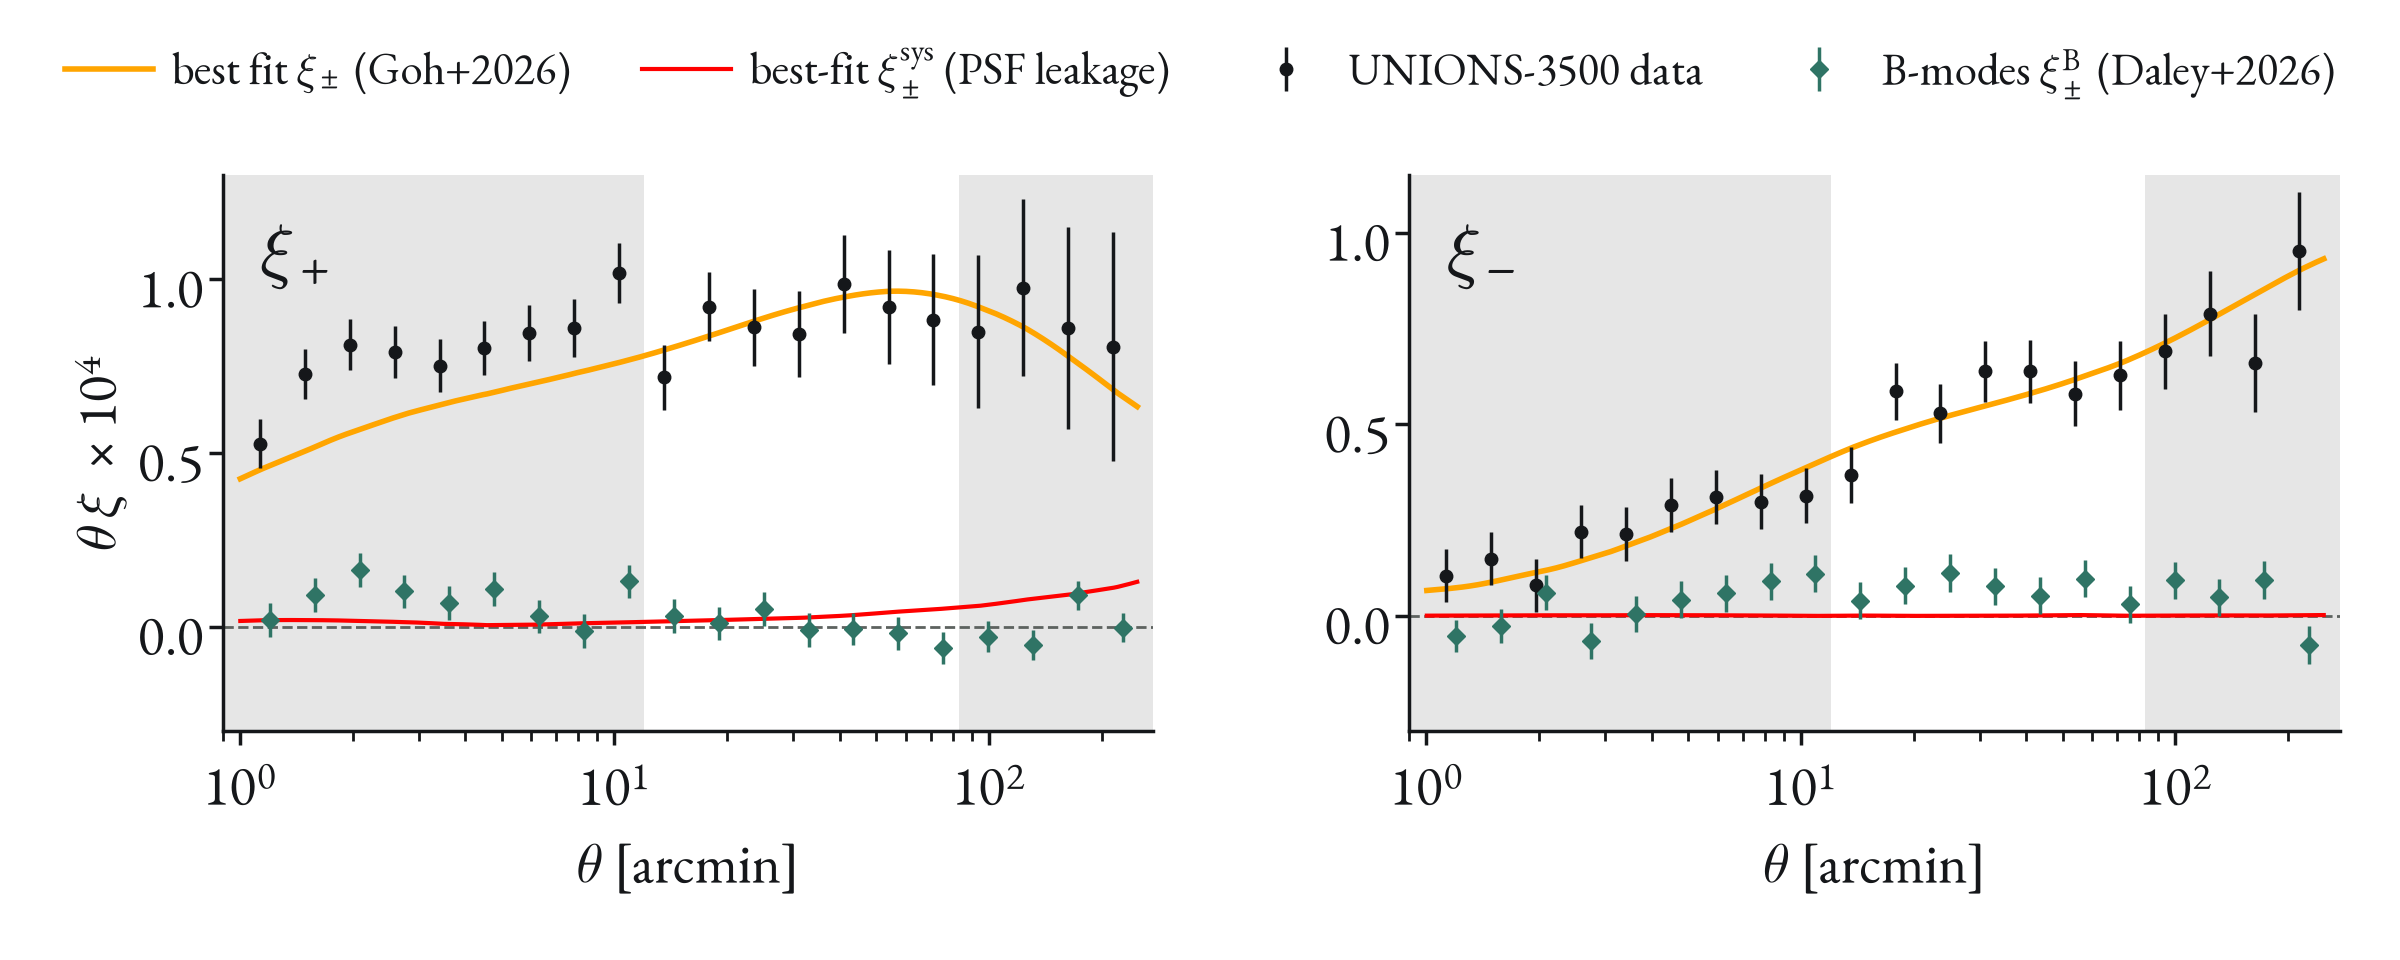
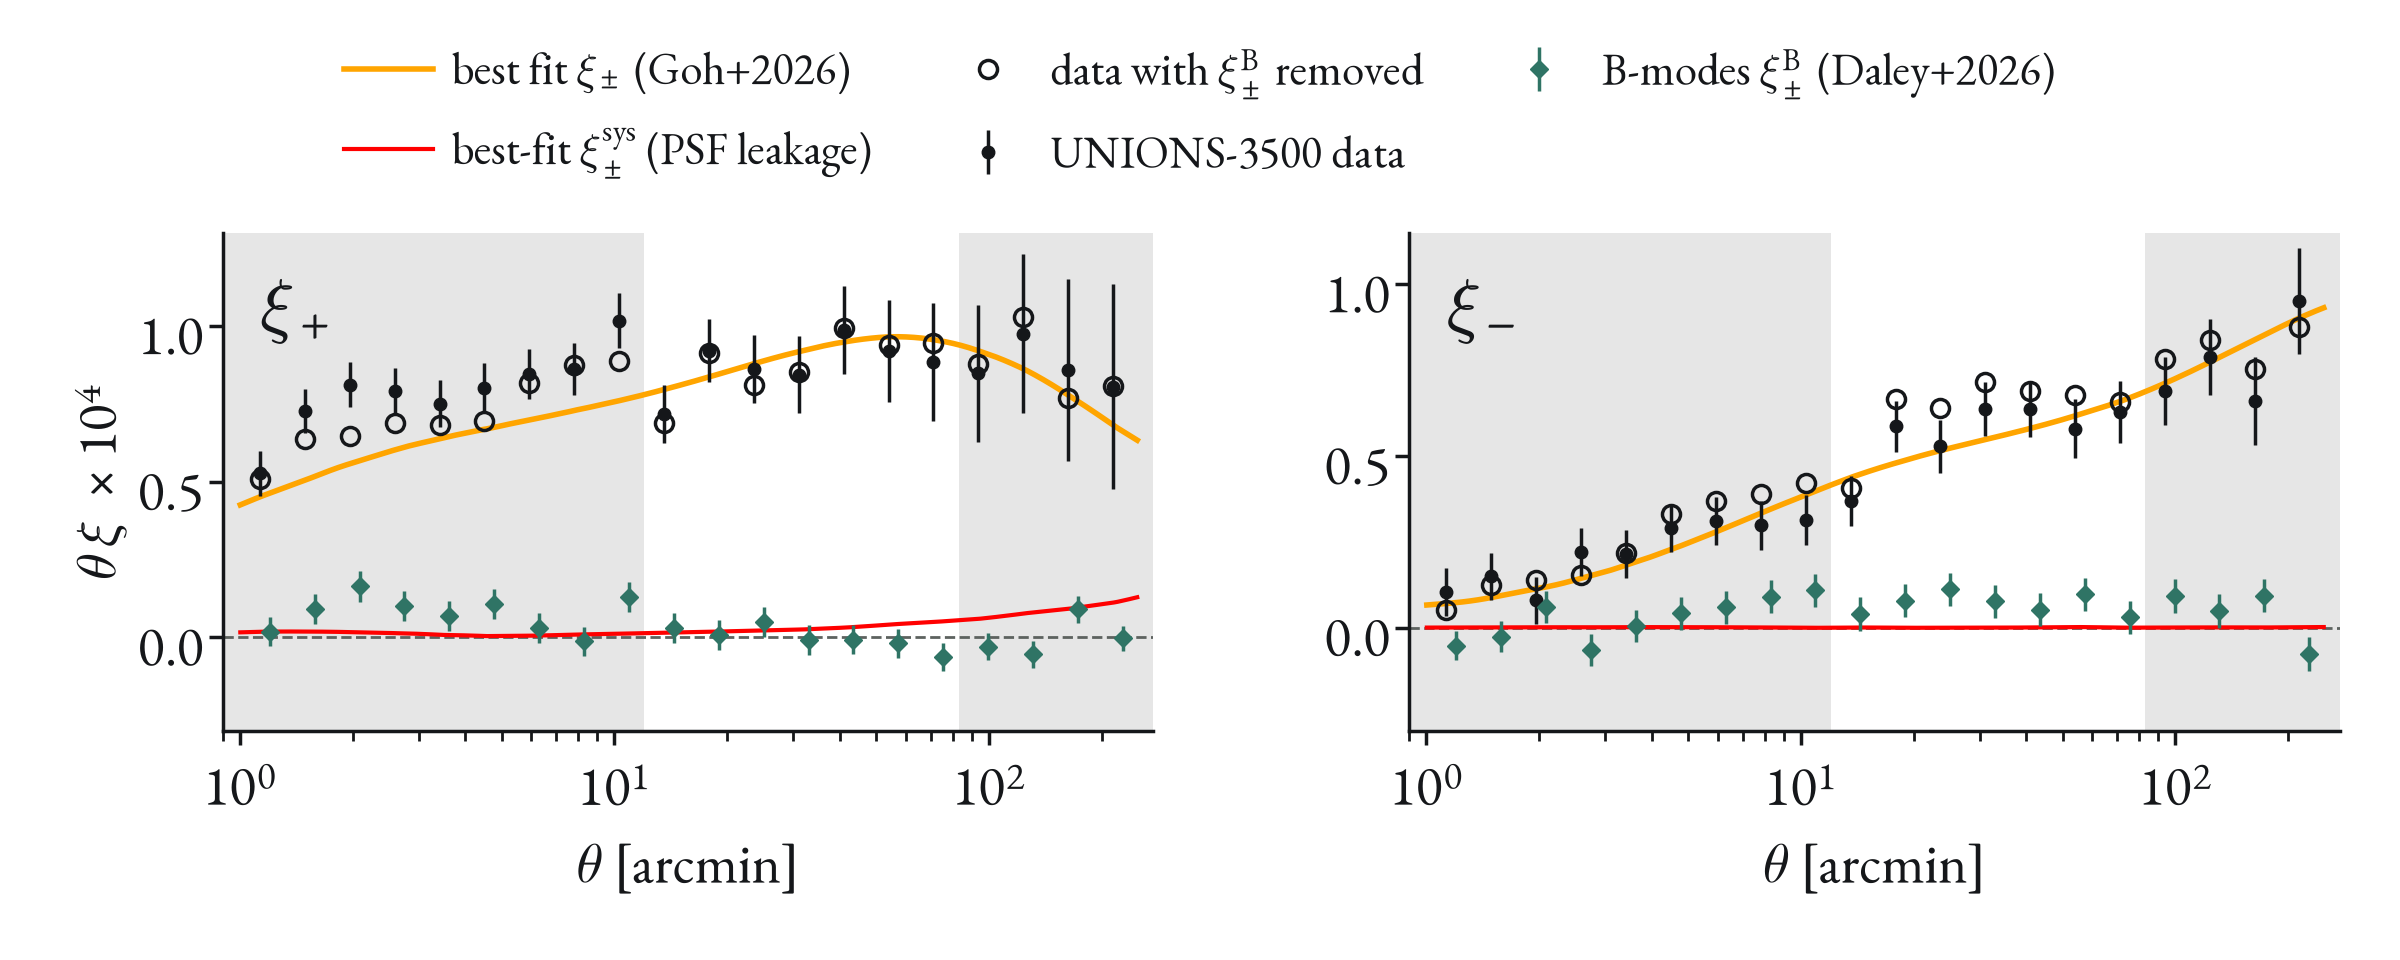
B-mode overlay: open circles show the data with the B-modes removed (xi+ - xi+^B, xi- + xi-^B)
Claude-Session: https://claude.ai/code/session_01JK7o9GTSbY3QWW84U2cgE9

diff --git a/figures/paper3_xipm_bmodes.py b/figures/paper3_xipm_bmodes.py
@@ -8,7 +8,8 @@ images/paper3_xipm_bmodes.png
 Paper III's arrays (data, diagonal errors, best fit, best-fit xi_sys) are read from the
 vector content of its Figure 1 PDF: axes registered on the 12'/83' scale-cut edges (x, log)
 and the zero line plus y tick-label spacing (y). Both papers use the same 20 log bins over
-1-250 arcmin. The B-modes and their errors (diagonal of the MC pure-mode covariance) come
+1-250 arcmin. Open circles: the data with the B-modes removed (xi+ - xi+^B, xi- + xi-^B).
+The B-modes and their errors (diagonal of the MC pure-mode covariance) come
 from the bmodes Lightcone baseline, the input of pure_eb.pure_eb_data_vector_figure.
 """
 import matplotlib.pyplot as plt
@@ -81,6 +82,9 @@ def main():
         ax.plot(*p["sys"], color="red", lw=3, zorder=3, label=r"best-fit $\xi^{\rm sys}_\pm$ (PSF leakage)")
         ax.errorbar(p["theta"] * 0.97, p["y"], p["err"], fmt="o", color=INK, ms=9, lw=2.5, zorder=4,
                     label="UNIONS-3500 data")
+        sign = -1 if i == 0 else 1   # B-modes add to xi+ and subtract from xi-: remove them
+        ax.plot(p["theta"] * 0.97, p["y"] + sign * th * xb * 1e4, "o", mfc="none", mec=INK, ms=13, mew=2.5, zorder=4,
+                label=r"data with $\xi^B_\pm$ removed")
         ax.errorbar(th * 1.03, th * xb * 1e4, th * sb * 1e4, fmt="D", color=B_COLOR, ms=9, lw=2.5, zorder=5,
                     label=r"B-modes $\xi^B_\pm$ (Daley+2026)")
         ax.set_xscale("log")
@@ -90,8 +94,8 @@ def main():
     axes[0].set_ylabel(r"$\theta\,\xi\ \times 10^4$")
     axes[0].set_ylim(-0.3, 1.3)
     axes[1].set_ylim(-0.3, 1.15)
-    fig.tight_layout(w_pad=2, rect=(0, 0, 1, 0.88))
-    fig.legend(*axes[0].get_legend_handles_labels(), loc="upper center", ncol=4, frameon=False,
+    fig.tight_layout(w_pad=2, rect=(0, 0, 1, 0.82))
+    fig.legend(*axes[0].get_legend_handles_labels(), loc="upper center", ncol=3, frameon=False,
                fontsize=32, handletextpad=0.4, columnspacing=1.6)
     out = IMAGES / "paper3_xipm_bmodes.png"
     fig.savefig(out, facecolor="white")
